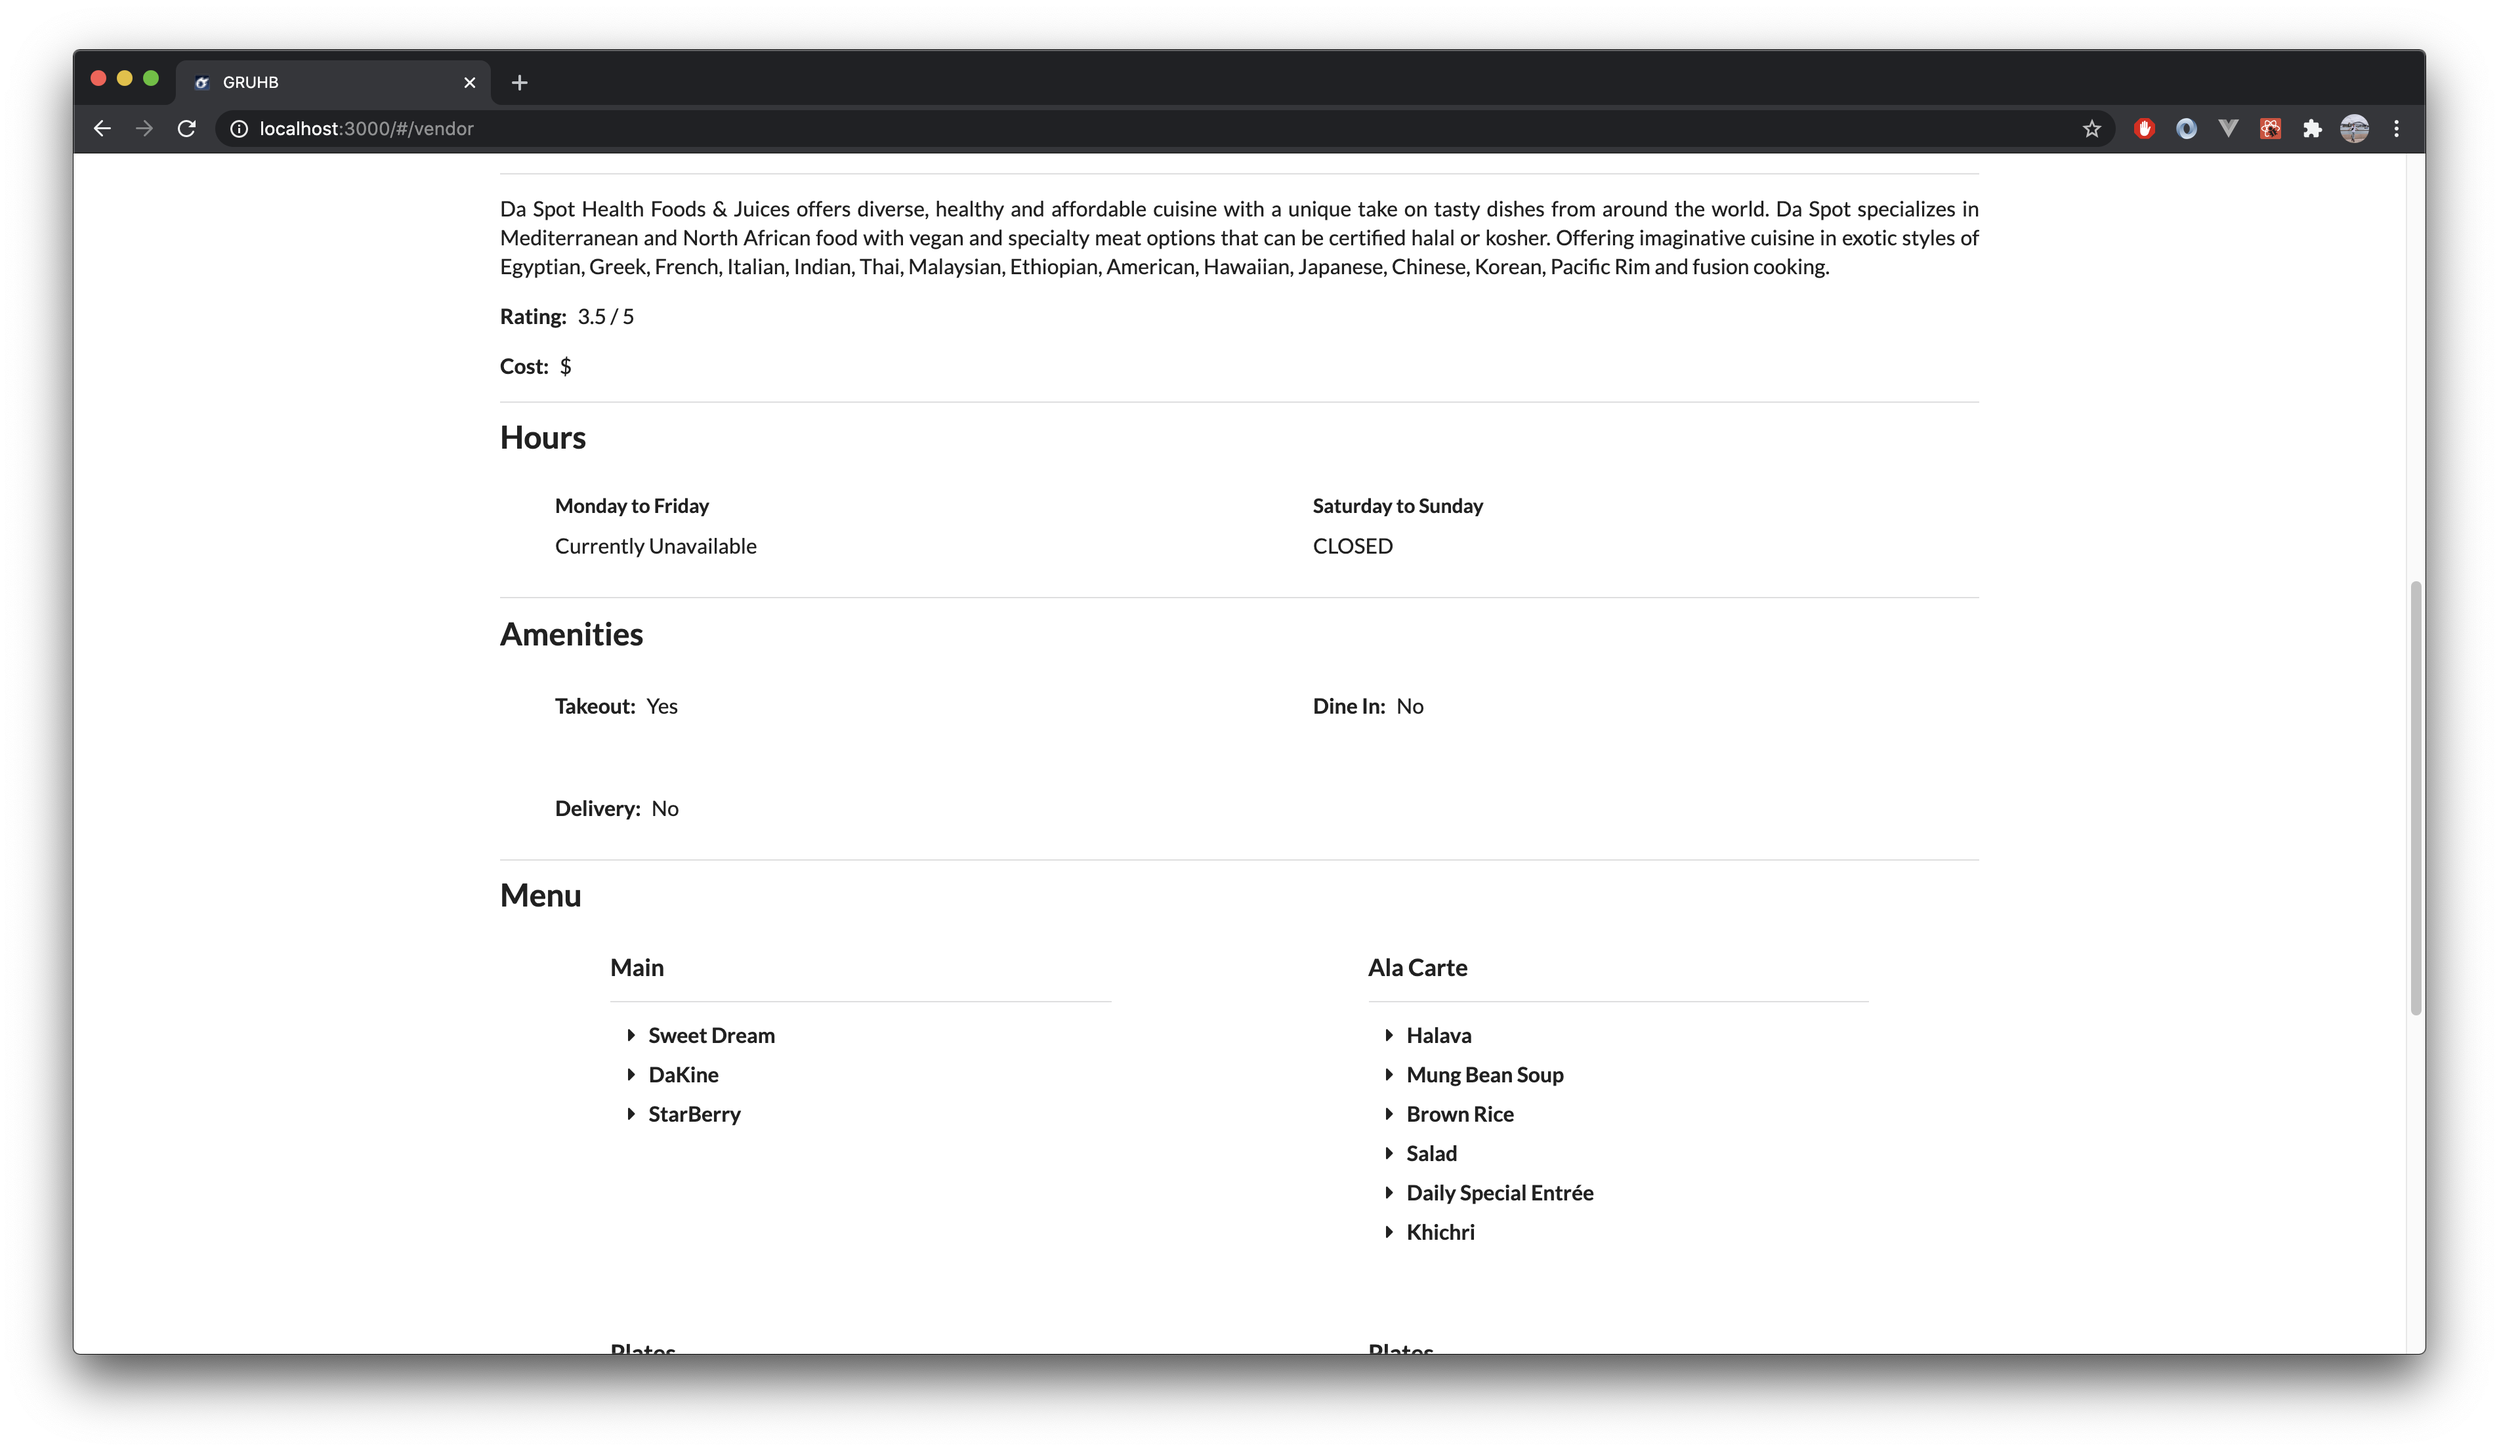
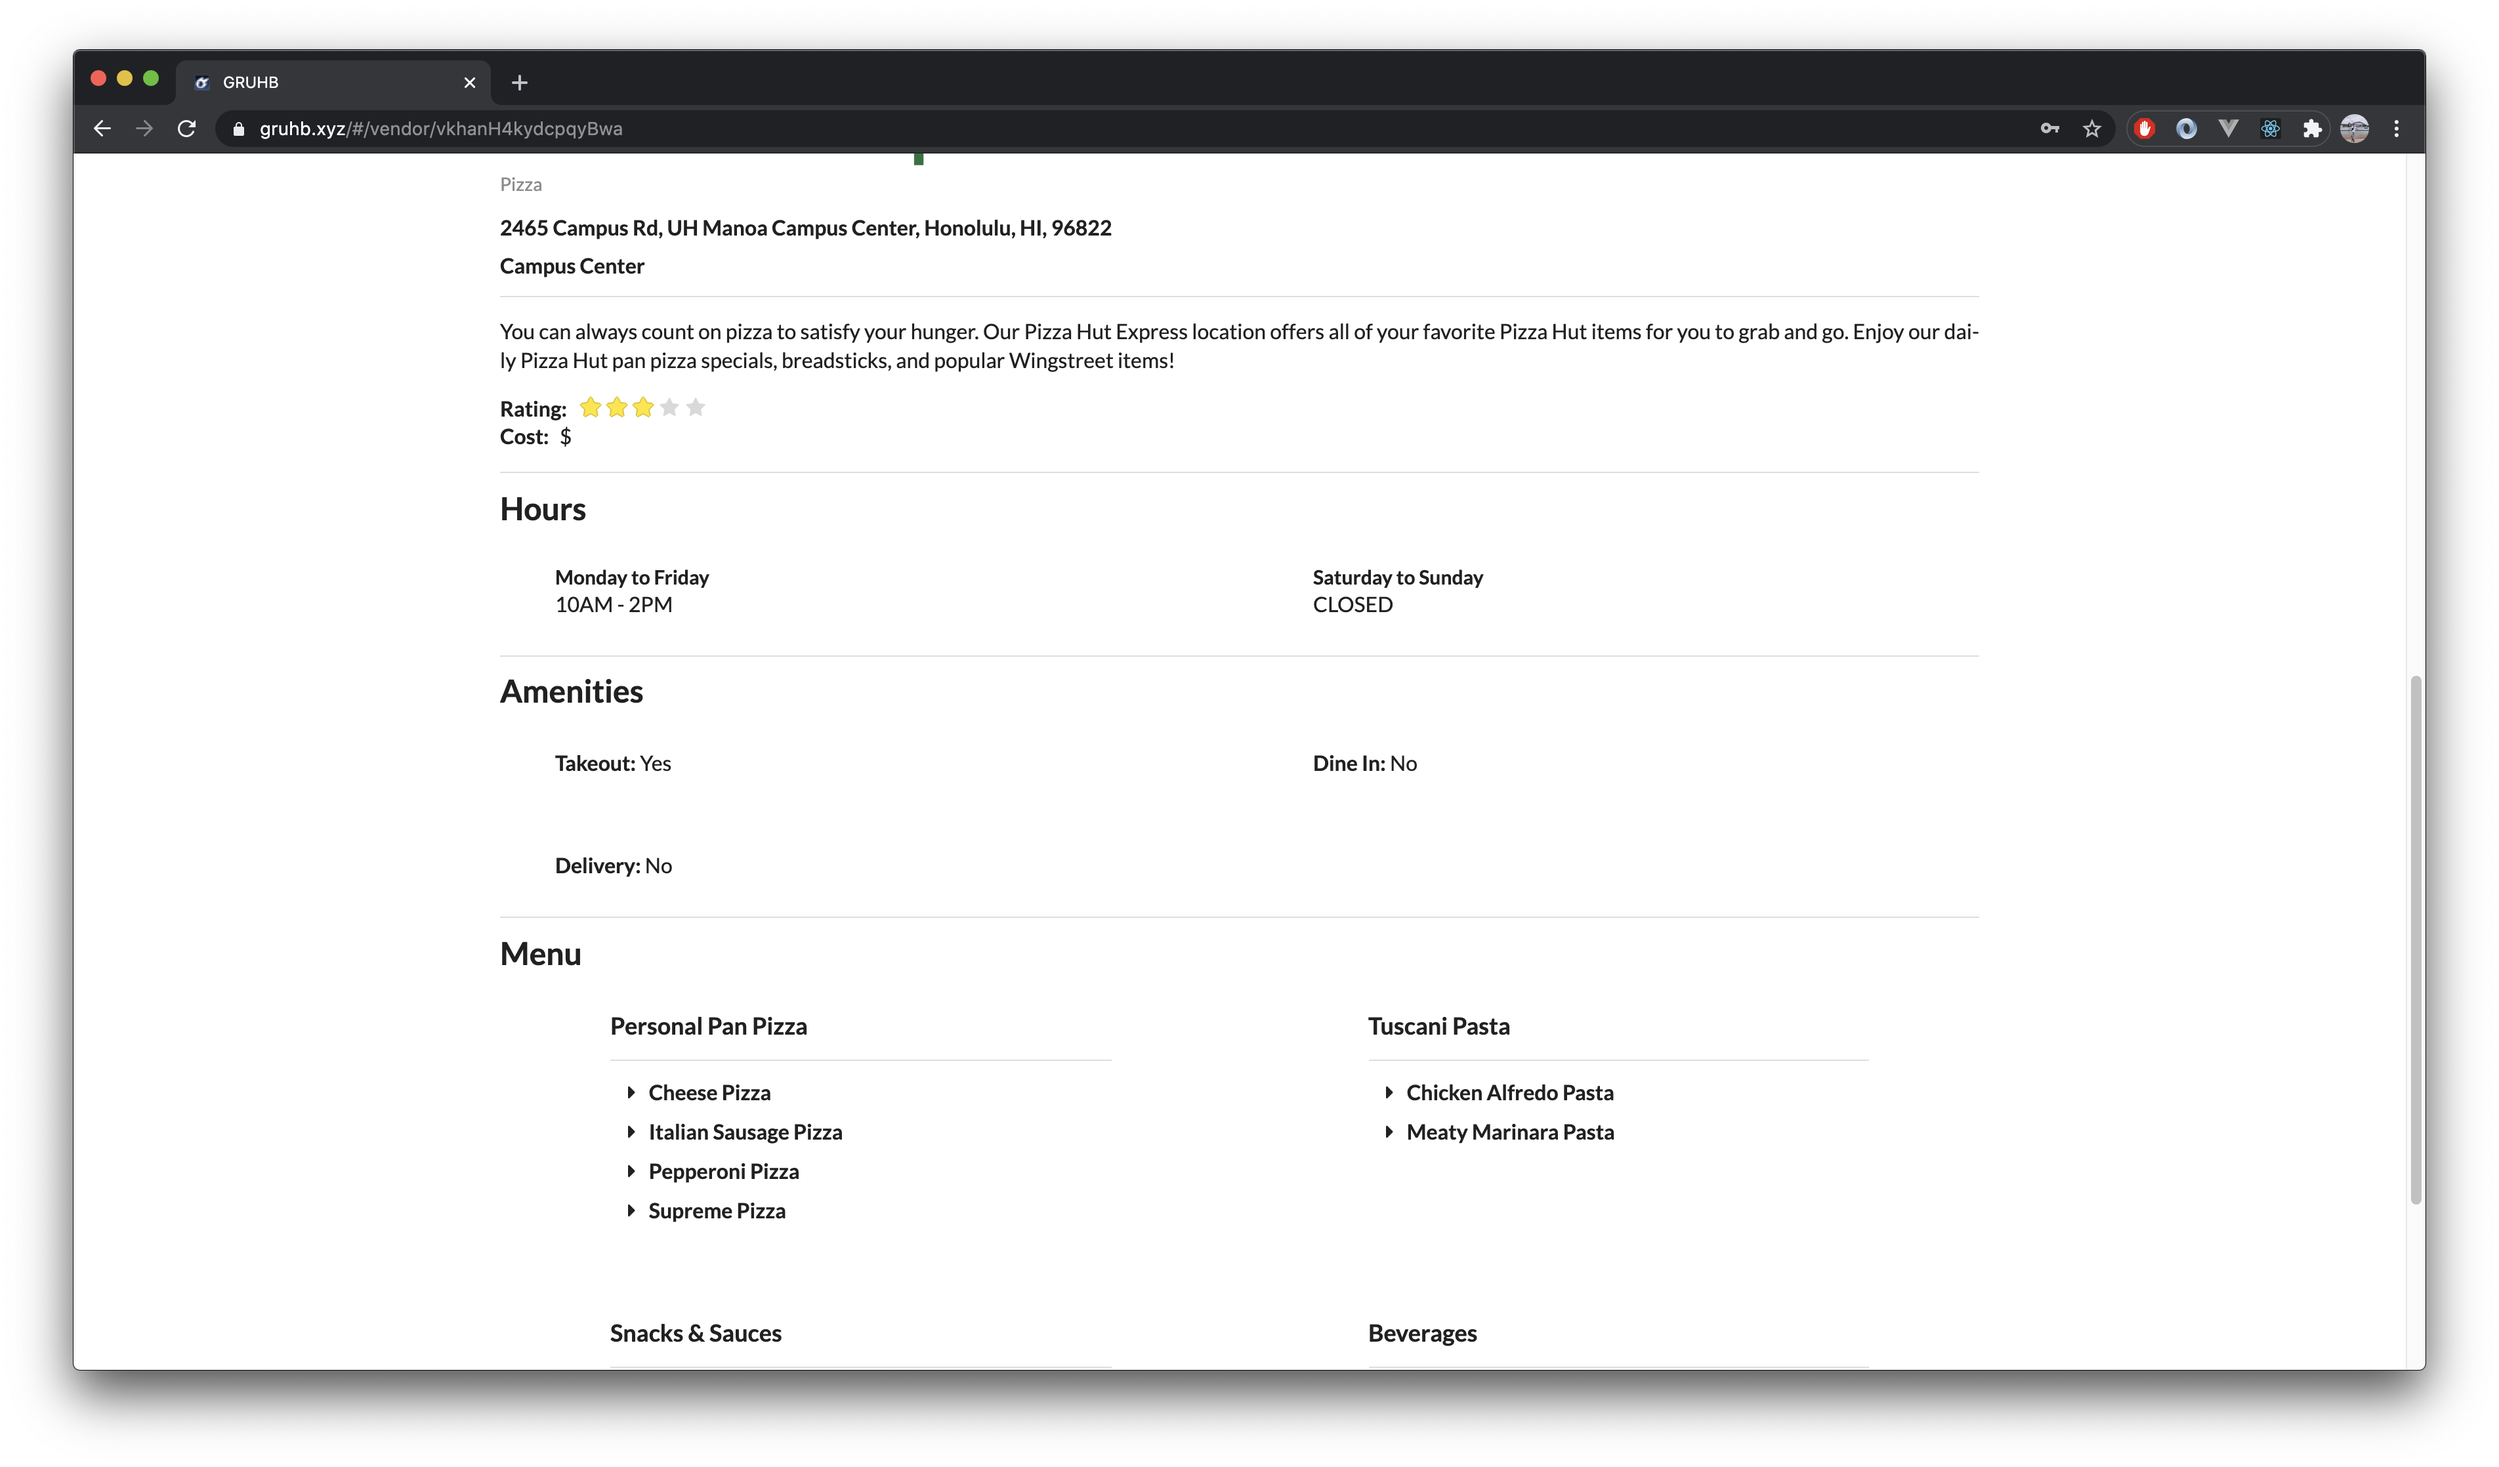
Add Milestone 3 content.

diff --git a/index.md b/index.md
@@ -54,14 +54,17 @@ As stated as the first goal of the project, the system will provide an easy-to-u
 - We created the Log In, Sign Up, Sign Out, Home Page, and Vendor pages.
 - We were also met with some difficulty setting up our data schema and figuring out how to properly store data from a form. We were not able to get our data collections working in time before this milestone has ended.
 
-## Milestone 3 (IN PROGRESS):
+## Milestone 3 (DONE):
 
 [Visit the Milestone 3 project board here](https://github.com/gruhb-doc/gruhb-doc/projects/4).
 
-- In this milestone, we will be finishing up the web app as a whole.
-- We will be adding an About Us page and a filtering feature for the home page vendor feed.
-- We will be adding finishing touches.
-- We will have a working data collection and the Vendor page will no longer show the mockup data.
+- In this milestone, we finalized all of the pages, got our data schema working, and added a couple of features from Milestone 2.
+- Added an Add Vendor and Edit Vendor page to provide a more dynamic listing of the vendors.
+- Added an About Us page that provides a brief biography of each team member.
+- Added finishing styling touches to the Home Page and Vendor pages. We also made styling updates to the footer, to match the styling of the header (nav-bar).
+- Created a working data schema and no longer displayed placeholder mock-up data for the Vendor page.
+- From creating a working data schema, this allowed us to create a feed style of vendor cards for the user's home page (much like Instagram, where the user's home page is a feed of posts).
+- We realized that due to the nature of our idea of this project, we decided that a profile page is not necessary.
 
 # User Guide
 
@@ -106,21 +109,44 @@ After a user clicks on a vendor card from the user's home page feed, the Vendor 
 **Part 2**
 ![](images/gruhb_vendorpg_2.png)
 
----
+**Part 3**
+![](images/gruhb_vendorpg_3.png)
 
-## **The following pages are still in progress (will be done for Milestone 3). Due to personal time constraints we were not able to finish these pages yet. We were having difficulties setting up our data schema and making sure the data is properly stored and displayed.**
+### Add Vendor
 
-### Profile page
+The Add Vendor page allows the user to add a new vendor to the website if there is a newly open vendor on campus.
 
-Once the user is logged in, they will be able to access a profile page where they can edit their personal information. We will be basing this design off of [Instagram’s](https://www.instagram.com) edit profile design.
+**Part 1**
+![](images/gruhb_add-pg_1.png)
 
-![](images/profile.png)
+**Part 2**
+![](images/gruhb_add-pg_2.png)
 
-### Favorites
+### Edit Vendor
 
-The Favorites page will be once again presented in a feed type of format. Users will be able to see a feed of their favorite vendors for easy access. We will be basing this design off of [Instagram's](https://www.instagram.com) feed design.
+The Edit Vendor page allows the user to edit an exisiting vendor's information.
 
-![](images/ig_feed.png)
+**Part 1**
+![](images/gruhb_editpg_1.png)
+
+**Part 2**
+![](images/gruhb_editpg_2.png)
+
+### About Us
+
+The About Us page provides a brief biography for each team member.
+
+![](images/gruhb_about.png)
+
+### Matching Nav Bar and Footer
+
+As part of Milestone 3, we made styling changes to the footer and made it match to the styling of the Nav Bar.
+
+**Nav Bar :**
+![](images/gruhb_navbar.png)
+
+**Footer :**
+![](images/gruhb_footer.png)
 
 ---
 
